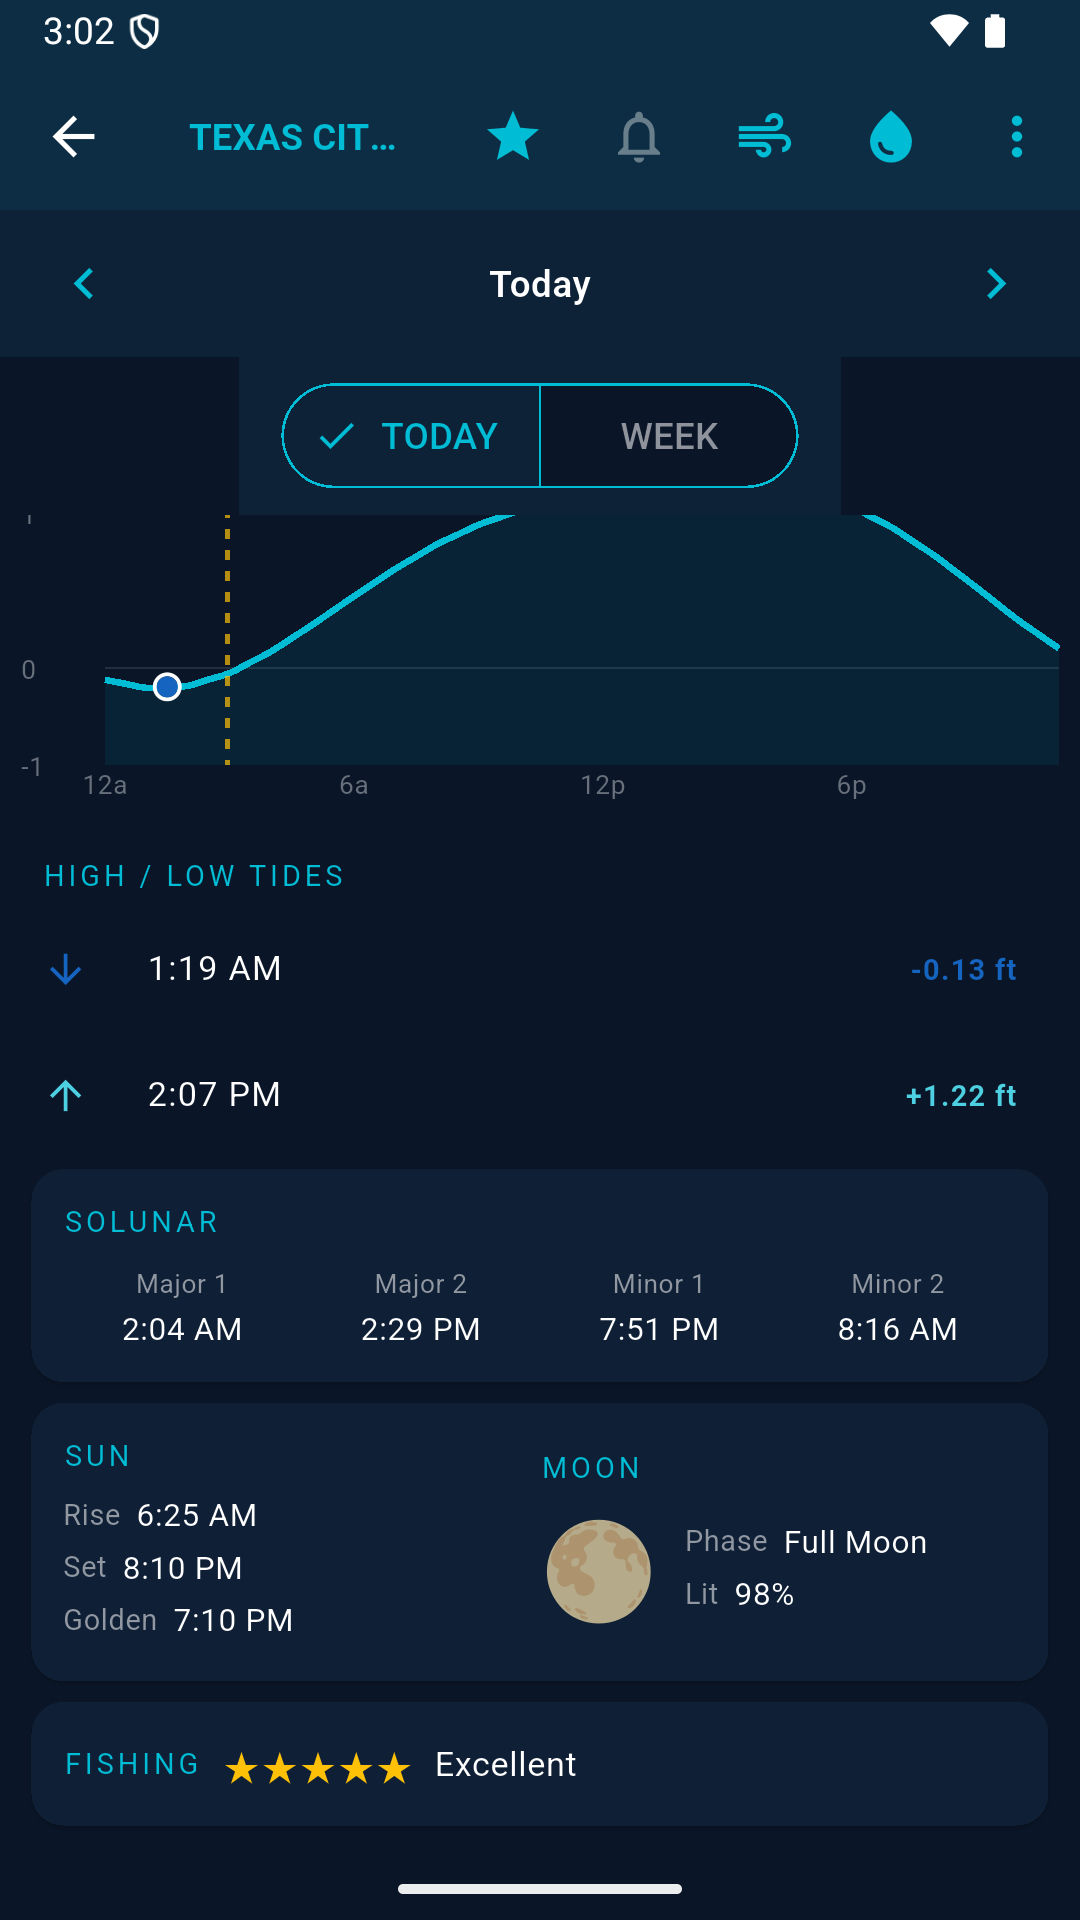
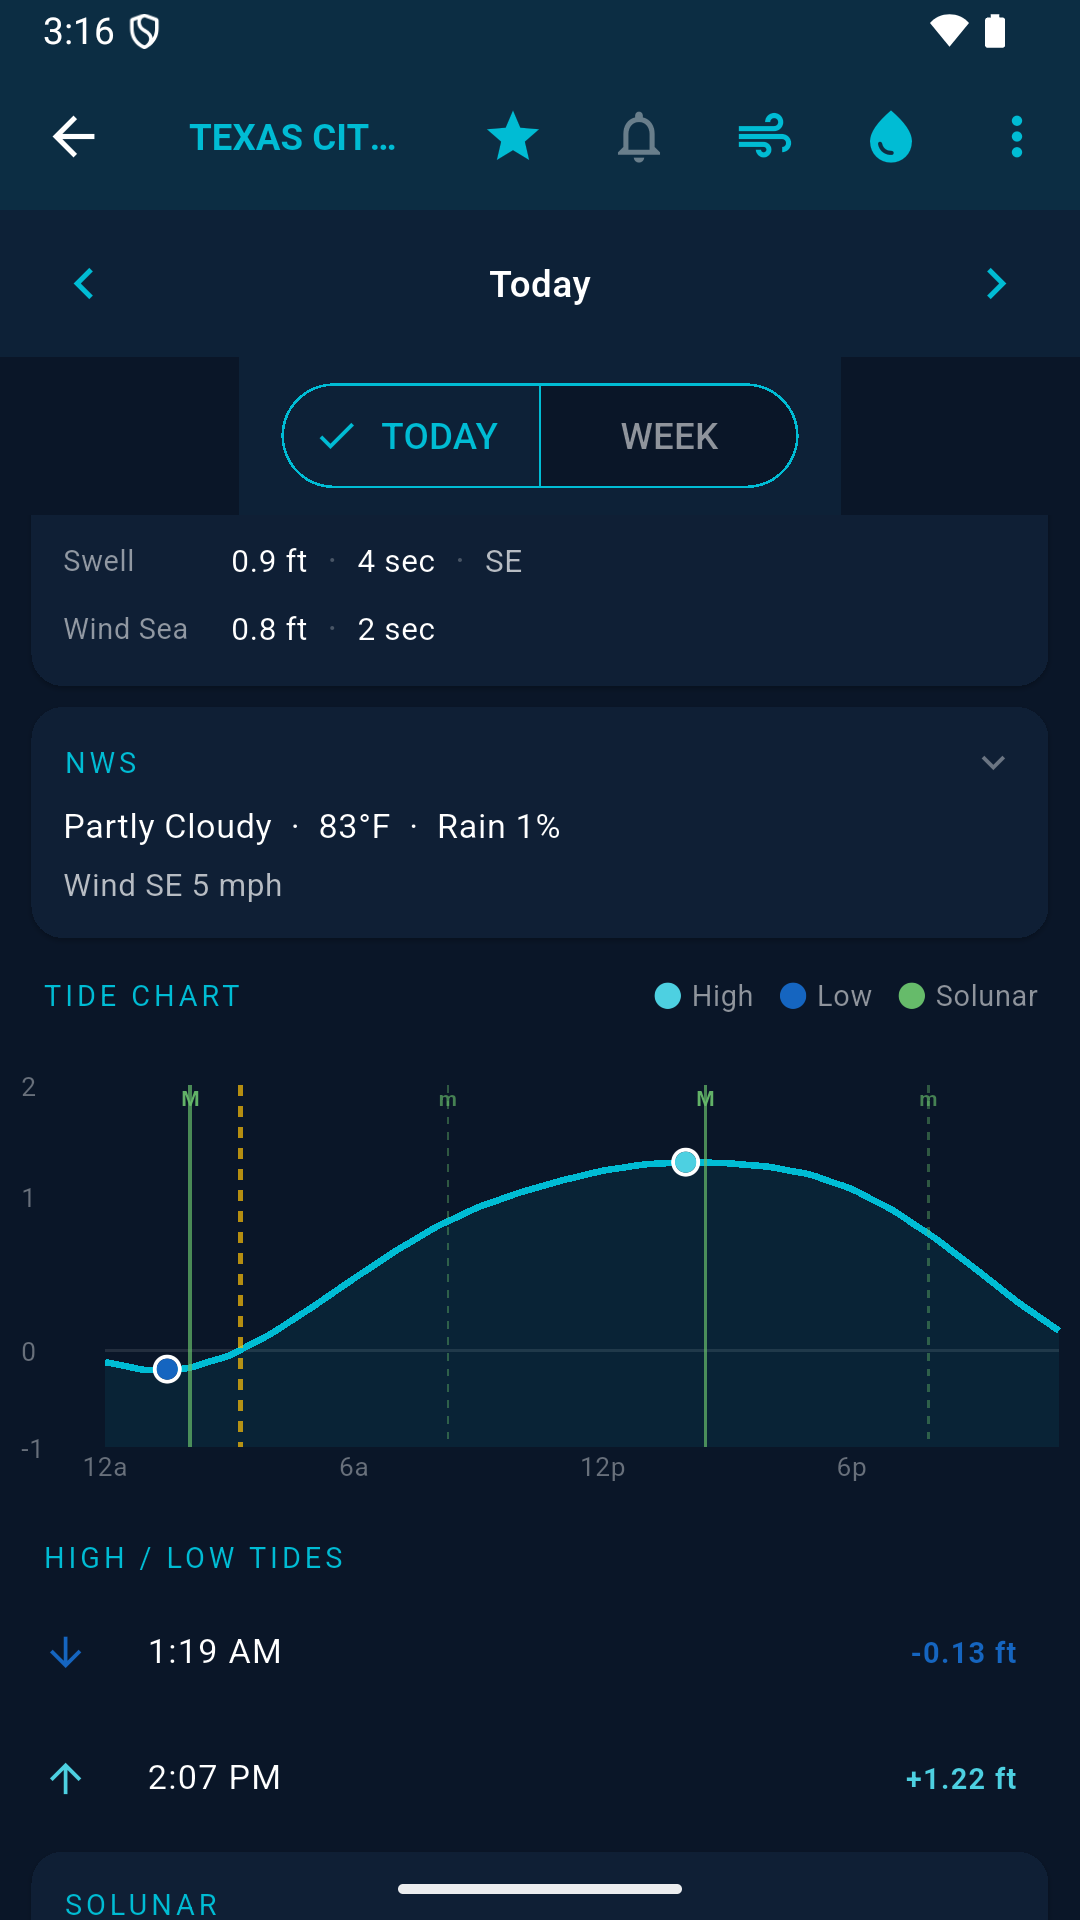
dev: solunar lines on tide chart + slimmer timeline play buttons (build 23)
- Tide chart: draw solunar feeding-period markers like the Grafana fish-logger
  dashboard — solid green 'M' lines for major periods, dashed green 'm' for
  minor (placed at the SolunarInfo hour-of-day values), plus a 'Solunar' legend
  entry. TideChart gains an optional  param; detail screen passes it.
- Radar + salinity timeline play/pause buttons were carrying the default ~48px
  IconButton hit-area; tightened to a 34px footprint (padding zero + constraints,
  iconSize 20) so they no longer crowd the scrubber.
- Refreshed wind_map_radar.png + detail_solunar.png to show both. Build +22→+23.

diff --git a/tides_flutter/lib/widgets/tide_chart.dart b/tides_flutter/lib/widgets/tide_chart.dart
@@ -8,6 +8,7 @@ class TideChart extends StatefulWidget {
   final List<TidePrediction> hilo;
   final bool isToday;
   final bool metric;
+  final SolunarInfo? solunar;
 
   const TideChart({
     super.key,
@@ -15,6 +16,7 @@ class TideChart extends StatefulWidget {
     required this.hilo,
     required this.isToday,
     this.metric = false,
+    this.solunar,
   });
 
   @override
@@ -103,6 +105,38 @@ class _TideChartState extends State<TideChart> {
           strokeWidth: 1.5,
         ),
     ];
+
+    // Solunar feeding-period markers (hours of day), like the Grafana dashboard:
+    // solid green = major (peak), dashed green = minor.
+    final sol = widget.solunar;
+    if (sol != null) {
+      const solGreen = Color(0xFF66BB6A);
+      void addSol(double t, bool major) {
+        if (t < 0 || t > 23) return; // off-chart
+        verticalLines.add(VerticalLine(
+          x: t,
+          color: solGreen.withValues(alpha: major ? 0.70 : 0.40),
+          strokeWidth: major ? 1.5 : 1,
+          dashArray: major ? null : [3, 3],
+          label: VerticalLineLabel(
+            show: true,
+            alignment: Alignment.topCenter,
+            padding: const EdgeInsets.only(bottom: 2),
+            style: TextStyle(
+              color: solGreen.withValues(alpha: major ? 0.95 : 0.65),
+              fontSize: 8,
+              fontWeight: FontWeight.w700,
+            ),
+            labelResolver: (_) => major ? 'M' : 'm',
+          ),
+        ));
+      }
+
+      addSol(sol.major1, true);
+      addSol(sol.major2, true);
+      addSol(sol.minor1, false);
+      addSol(sol.minor2, false);
+    }
 
     return Column(
       crossAxisAlignment: CrossAxisAlignment.stretch,

diff --git a/tides_flutter/lib/screens/detail_screen.dart b/tides_flutter/lib/screens/detail_screen.dart
@@ -300,15 +300,18 @@ class _TodayView extends StatelessWidget {
                       color: kCyan, fontSize: 11, letterSpacing: 1.5)),
               const Spacer(),
               _legend(kHighTide, 'High'),
-              const SizedBox(width: 12),
+              const SizedBox(width: 10),
               _legend(kLowTide, 'Low'),
+              const SizedBox(width: 10),
+              _legend(const Color(0xFF66BB6A), 'Solunar'),
             ]),
           ),
           TideChart(
               hourly: data.hourly,
               hilo: data.hilo,
               isToday: data.isToday,
-              metric: metric),
+              metric: metric,
+              solunar: data.solunar),
           const Padding(
             padding: EdgeInsets.fromLTRB(16, 12, 16, 4),
             child: Text('HIGH / LOW TIDES',

diff --git a/tides_flutter/lib/screens/wind_map_screen.dart b/tides_flutter/lib/screens/wind_map_screen.dart
@@ -1200,8 +1200,10 @@ class _WindMapScreenState extends ConsumerState<WindMapScreen> {
                 IconButton(
                   icon: Icon(_radarPlaying ? Icons.pause : Icons.play_arrow,
                       color: kCyan),
-                  iconSize: 22,
+                  iconSize: 20,
+                  padding: EdgeInsets.zero,
                   visualDensity: VisualDensity.compact,
+                  constraints: const BoxConstraints(minWidth: 34, minHeight: 34),
                   onPressed: () {
                     setState(() => _radarPlaying = !_radarPlaying);
                     if (_radarPlaying) {

diff --git a/tides_flutter/lib/screens/salinity_map_screen.dart b/tides_flutter/lib/screens/salinity_map_screen.dart
@@ -456,8 +456,10 @@ class _SalinityMapScreenState extends State<SalinityMapScreen> {
                 IconButton(
                   icon: Icon(_playing ? Icons.pause : Icons.play_arrow,
                       color: kCyan),
-                  iconSize: 22,
+                  iconSize: 20,
+                  padding: EdgeInsets.zero,
                   visualDensity: VisualDensity.compact,
+                  constraints: const BoxConstraints(minWidth: 34, minHeight: 34),
                   onPressed: _togglePlay,
                 ),
                 Expanded(
